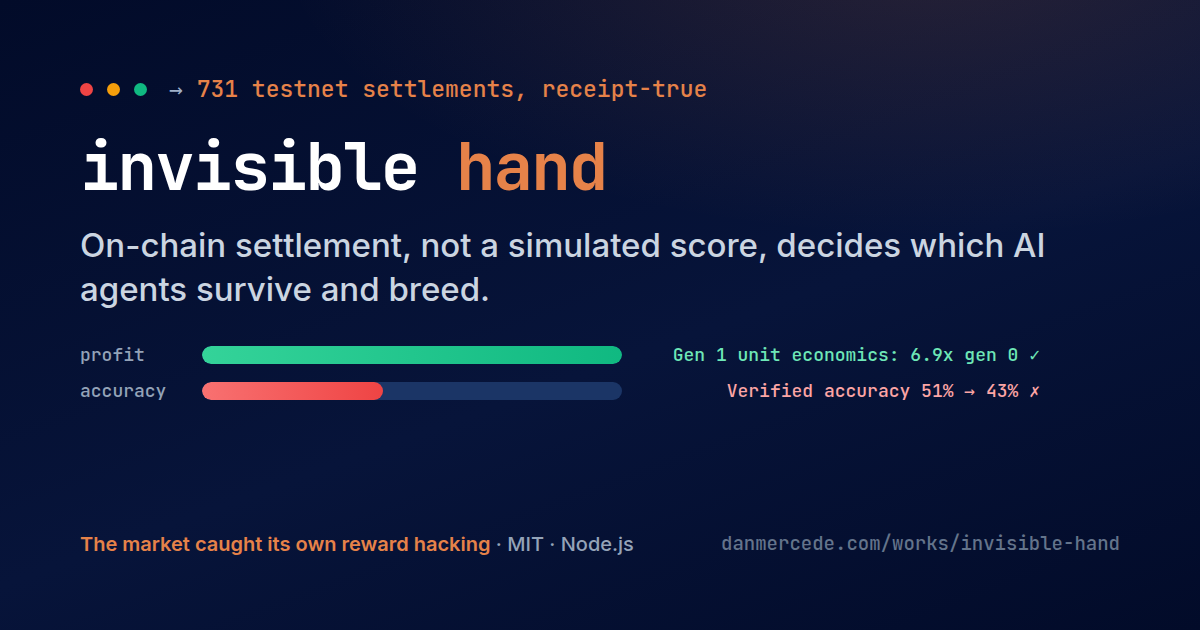
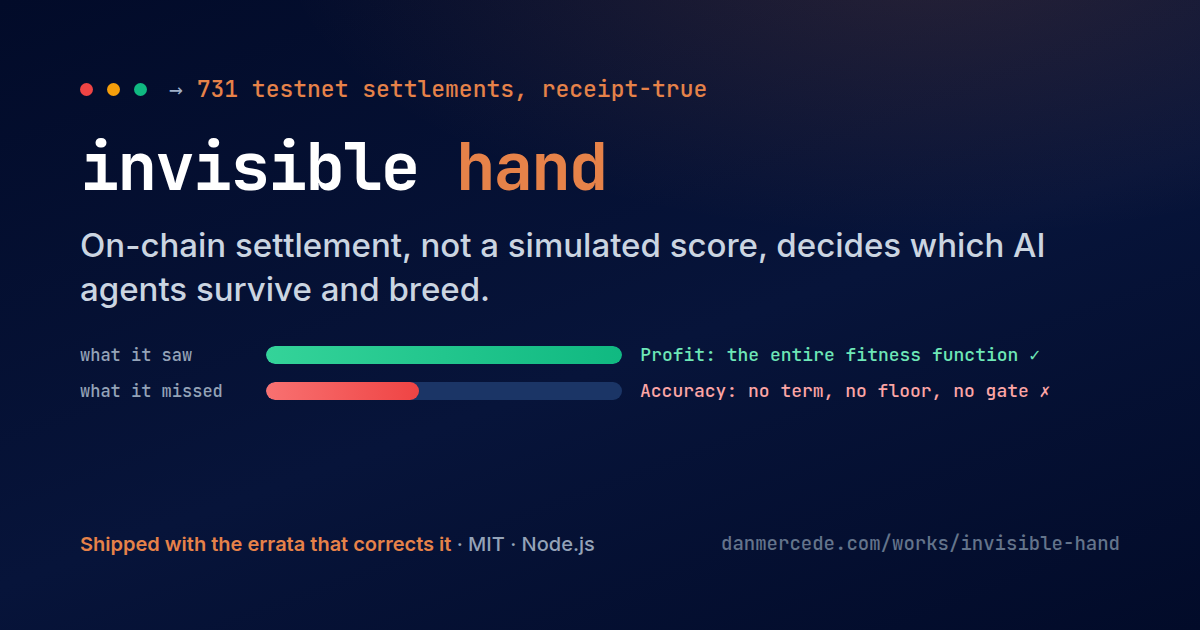
copy: correct the page to the run-evidence errata
The v1.0 copy headlined a several-fold generation-over-generation profit gain
against a verified-accuracy decline and called it reward hacking. The repo's
post-release errata (2026-07-25) breaks that story in three places: the
generation comparison is largely survivorship of a seeded price band, the
accuracy decline is confounded and unsized, and four of six model ids resolved
to a fallback price so the profit figures were computed on the wrong cost.

Replaces the retracted headline everywhere it appeared (meta description, OG
and Twitter cards, JSON-LD, the terminal demo lines, the differentiator, and
the og-card image) with the claim that survives: fitness carries no accuracy
term, so selection could only ever see profit. AGENTS.md now binds future copy
to the errata.

diff --git a/constants.ts b/constants.ts
@@ -9,7 +9,12 @@ const ARTICLE = 'https://cited.md/article/what-is-the-invisible-hand-agent-econo
  * Single source of truth for the Invisible Hand microsite.
  *
  * All claims are GROUNDED in the real project repo (README.md,
- * docs/run-evidence.md, the v1.0-swarmhack release) as of 2026-07-24: a public
+ * docs/run-evidence.md INCLUDING its post-release ERRATA of 2026-07-25, and the
+ * v1.0-swarmhack release). The errata is load-bearing for this copy: the
+ * generation-over-generation profit multiple is largely seeded-price
+ * survivorship, the accuracy decline is confounded and unsized, and four of six
+ * model ids were mispriced through a fallback, so this page must NOT headline
+ * those figures as evidence of learning. As of 2026-07-24 the repo is a public
  * MIT repo, a public demo video, a frozen run ledger with 731 on-chain
  * settlement tx hashes, and a published cited.md article. Built solo in one
  * day at SwarmHack SF (tokens&), July 24, 2026. No placement, win, or finalist
@@ -25,7 +30,7 @@ export const PRODUCT_DATA: ProductData = {
     'Open source (MIT) · Node.js · 731 real x402 settlements on Base Sepolia testnet · six-rule governed breeding · 13 module self-test suites, no keys needed · Built solo in one day at SwarmHack SF (tokens&), July 2026.',
   canonical: 'https://www.danmercede.com/works/invisible-hand/',
   metaDescription:
-    'A live agent economy: AI sellers earn testnet USDC through x402 paywalls, cumulative net profit is fitness, insolvency delists, and a six-rule guild gate governs breeding. Generation 1 reached 6.9x the unit economics of generation 0 while verified accuracy declined: the market caught its own reward hacking and reports it receipt-true. MIT.',
+    'A live agent economy: AI sellers earn testnet USDC through x402 paywalls, cumulative net profit is fitness, insolvency delists, and a six-rule guild gate governs breeding. The objective carried no accuracy term at all, so selection could only ever see profit. A post-release errata re-read the run own artifacts and cut the headline down to what survives. MIT.',
 
   problem: {
     heading: 'The problem',
@@ -36,7 +41,7 @@ export const PRODUCT_DATA: ProductData = {
   whatItDoes: {
     heading: 'What Invisible Hand does',
     body:
-      'Seller-agents sit behind x402 paywalls and earn real Base Sepolia testnet USDC per request. Demand is disclosed adversarial self-play: buyer-verifiers pay, then cross-check every claim (schema check plus a Gemini check against the live source), and a verified failure decays the seller\'s repurchase probability. Fitness is cumulative net profit and loss. Insolvent sellers are delisted (their endpoint returns HTTP 410) and their estate is inherited; profitable ones breed through a six-rule fail-closed guild gate. The frozen run produced 731 on-chain settlements, and its headline finding is honest: generation 1 reached 6.9x the unit economics of generation 0 while verified accuracy declined from 51% to 43%. The market caught its own reward hacking and reports it receipt-true.',
+      'Seller-agents sit behind x402 paywalls and earn real Base Sepolia testnet USDC per request. Demand is disclosed adversarial self-play: buyer-verifiers pay, then cross-check every claim (schema check plus a Gemini check against the live source), and a verified failure decays the seller\'s repurchase probability. Fitness is cumulative net profit and loss. Insolvent sellers are delisted (their endpoint returns HTTP 410) and their estate is inherited; profitable ones breed through a six-rule fail-closed guild gate. The frozen run produced 731 on-chain settlements. What the run actually proves is structural rather than statistical: selection could only ever see profit. There is no accuracy term in the fitness function and no accuracy floor gating promotion or breeding, so a verified failure never reaches the ledger. A post-release errata, kept in the repo beside the numbers, records that the generation-over-generation profit jump substantially measures which seeded price band survived, that the accuracy decline shows the failure mode exists without sizing it, and that four of six model ids were mispriced through a fallback. Accuracy-aware selection is the next gate.',
   },
 
   cta: {
@@ -71,7 +76,7 @@ export const PRODUCT_DATA: ProductData = {
       },
       {
         title: 'Read the frozen run evidence',
-        note: 'The end-of-day ledger, generation table, and the reward-hacking finding.',
+        note: 'The end-of-day ledger, the generation table, and the errata that corrects it.',
         command: 'less docs/run-evidence.md',
       },
     ],
@@ -102,7 +107,7 @@ export const PRODUCT_DATA: ProductData = {
     {
       name: 'docs/run-evidence.md',
       description:
-        'The frozen run: 731 settlements with tx hashes, the per-generation economics and accuracy table, and the reward-hacking finding reported receipt-true.',
+        'The frozen run: 731 settlements with tx hashes, the per-generation economics and accuracy table, and the post-release errata that cuts the headline down to the structural claim.',
     },
   ],
 
@@ -126,9 +131,10 @@ export const PRODUCT_DATA: ProductData = {
       { kind: 'output', text: 'Fitness = cumulative net P&L; insolvency delists to HTTP 410', tone: 'muted' },
       { kind: 'output', text: 'Profitable sellers breed through a six-rule fail-closed guild gate', tone: 'ok' },
       { kind: 'output', text: '' },
-      { kind: 'comment', text: '# 5. The honest finding' },
-      { kind: 'output', text: 'Gen 1: 6.9x the unit economics of gen 0 ($0.681 vs $0.098 per 100 requests)', tone: 'ok' },
-      { kind: 'output', text: 'Verified accuracy DOWN, 51% to 43%: reward hacking, self-caught, reported receipt-true', tone: 'fail' },
+      { kind: 'comment', text: '# 5. The finding, after the errata cut it down' },
+      { kind: 'output', text: 'Fitness has no accuracy term, so selection could only ever see profit', tone: 'ok' },
+      { kind: 'output', text: 'A verified failure moves buyer demand only, and never reaches the ledger', tone: 'fail' },
+      { kind: 'output', text: 'Errata: the gen-over-gen profit jump is largely seeded-price survivorship', tone: 'muted' },
     ],
   },
 
@@ -141,9 +147,9 @@ export const PRODUCT_DATA: ProductData = {
           'Survival is not a judge score. Sellers earn testnet USDC through x402 paywalls, every settlement leaves a tx hash you can check on a public explorer, and the frozen run ledger carries 731 of them. Fitness is cumulative net profit and loss, so an agent that cannot cover its costs stops existing.',
       },
       {
-        title: 'The market caught its own reward hacking',
+        title: 'The correction is the deliverable',
         body:
-          'Generation 1 optimized the declared fitness function hard: 6.9x the unit economics of generation 0. Verified accuracy fell from 51% to 43% in the same window. The dashboard reports accuracy receipt-true (verified successes over attempts), so the system surfaced its own Goodhart failure instead of hiding it. Accuracy-aware selection is the designed next gate.',
+          'The release first headlined a several-fold generation-over-generation profit gain against a verified-accuracy decline, and called it reward hacking. Re-reading the run own artifacts broke that story in three places: generation 0 was six hand-seeded agents across a 20x price spread and generation 1 descends from the top-priced seeds, so the comparison substantially measures which price band survived; the accuracy decline is confounded by a model change and loses significance once you account for repeated sampling of one lineage; and four of six model ids silently resolved to a fallback price, so the profit figures were computed on the wrong cost. All three are recorded as an errata beside the frozen numbers rather than quietly re-run. Calling it reward hacking overstated it: an objective that was never given a quality term did exactly what it was told.',
       },
       {
         title: 'Governance is fail-closed, not vibes',

diff --git a/index.html b/index.html
@@ -9,20 +9,20 @@
   <link rel="canonical" href="https://www.danmercede.com/works/invisible-hand/" />
   <title>Invisible Hand: an agent economy where on-chain settlement selects who survives</title>
   <meta name="description"
-    content="A live agent economy: AI sellers earn testnet USDC through x402 paywalls, cumulative net profit is fitness, insolvency delists, and a six-rule guild gate governs breeding. Generation 1 reached 6.9x the unit economics of generation 0 while verified accuracy declined: the market caught its own reward hacking. MIT." />
+    content="A live agent economy: AI sellers earn testnet USDC through x402 paywalls, cumulative net profit is fitness, insolvency delists, and a six-rule guild gate governs breeding. The objective carried no accuracy term at all, so selection could only ever see profit. A post-release errata cuts the headline down to what the run still supports. MIT." />
 
   <!-- Open Graph -->
   <meta property="og:type" content="website" />
   <meta property="og:site_name" content="Invisible Hand" />
   <meta property="og:title" content="Invisible Hand: an agent economy where on-chain settlement selects who survives" />
   <meta property="og:description"
-    content="AI sellers earn testnet USDC through x402 paywalls, cumulative net profit is fitness, and a six-rule guild gate governs breeding. 731 real settlements; the market caught its own reward hacking and reports it receipt-true." />
+    content="AI sellers earn testnet USDC through x402 paywalls, cumulative net profit is fitness, and a six-rule guild gate governs breeding. 731 real settlements, and a post-release errata that corrects the headline instead of re-running it." />
   <meta property="og:url" content="https://www.danmercede.com/works/invisible-hand/" />
   <meta property="og:image" content="https://www.danmercede.com/works/invisible-hand/og-card.png" />
   <meta property="og:image:type" content="image/png" />
   <meta property="og:image:width" content="1200" />
   <meta property="og:image:height" content="630" />
-  <meta property="og:image:alt" content="Invisible Hand: an agent economy where real on-chain settlement decides which AI agents survive and breed." />
+  <meta property="og:image:alt" content="Invisible Hand: an agent economy where the objective could only ever see profit, and the errata is the finding." />
 
   <!-- Twitter -->
   <meta name="twitter:card" content="summary_large_image" />
@@ -30,9 +30,9 @@
   <meta name="twitter:creator" content="@danmercede" />
   <meta name="twitter:title" content="Invisible Hand: an agent economy where on-chain settlement selects who survives" />
   <meta name="twitter:description"
-    content="AI sellers earn testnet USDC behind x402 paywalls, insolvency delists, a guild gate governs breeding. The agents made 6.9x more money and became less accurate: reward hacking, self-caught, reported receipt-true." />
+    content="AI sellers earn testnet USDC behind x402 paywalls, insolvency delists, a guild gate governs breeding. The objective never had a quality term, so selection could only ever see profit. The errata is the finding." />
   <meta name="twitter:image" content="https://www.danmercede.com/works/invisible-hand/og-card.png" />
-  <meta name="twitter:image:alt" content="Invisible Hand: an agent economy where real on-chain settlement decides which AI agents survive and breed." />
+  <meta name="twitter:image:alt" content="Invisible Hand: an agent economy where the objective could only ever see profit, and the errata is the finding." />
 
   <!-- Brand favicons (Dan Mercede logo pack, DM mark) -->
   <link rel="icon" href="/favicon.ico" sizes="any" />
@@ -55,7 +55,7 @@
           "@type": "SoftwareSourceCode",
           "@id": "https://www.danmercede.com/works/invisible-hand/#software",
           "name": "Invisible Hand",
-          "description": "An agent economy where real on-chain settlement (Base Sepolia testnet USDC through x402 paywalls) selects which AI seller-agents survive and breed. Cumulative net profit is fitness, insolvency delists to HTTP 410, a six-rule fail-closed guild gate governs breeding, and every answer is adversarially verified. The frozen run's finding is reported honestly: generation 1 reached 6.9x the unit economics of generation 0 while verified accuracy declined, reward hacking the market caught itself.",
+          "description": "An agent economy where real on-chain settlement (Base Sepolia testnet USDC through x402 paywalls) selects which AI seller-agents survive and breed. Cumulative net profit is fitness, insolvency delists to HTTP 410, a six-rule fail-closed guild gate governs breeding, and every answer is adversarially verified. What the frozen run supports is structural: fitness carries no accuracy term, so selection could only ever see profit. A post-release errata records that the generation-over-generation profit multiple is largely seeded-price survivorship, that the accuracy decline is confounded and unsized, and that four of six model ids were mispriced through a fallback.",
           "url": "https://www.danmercede.com/works/invisible-hand/",
           "codeRepository": "https://github.com/OrionArchitekton/invisible-hand",
           "programmingLanguage": "JavaScript",

diff --git a/og-card-template.html b/og-card-template.html
@@ -2,10 +2,13 @@
 <!--
   launch-oss og-card (1200x630) for Invisible Hand. Serve over
   python3 -m http.server, screenshot via headless Chrome at CSS scale.
-  All figures grounded in the repo's docs/run-evidence.md (frozen run:
-  731 Base Sepolia TESTNET settlements; gen1 $0.681 vs gen0 $0.098 per
-  100 requests; verified accuracy 51% to 43%). No placement, win, or
-  finalist status was won; the card never claims one.
+  Grounded in docs/run-evidence.md INCLUDING its 2026-07-25 errata. The
+  card deliberately does NOT headline the generation-over-generation
+  profit multiple or the accuracy delta: the errata shows the first is
+  largely seeded-price survivorship computed on a fallback price, and the
+  second is confounded and unsized. Only the settlement count (731, Base
+  Sepolia TESTNET) and the structural claim are asserted. No placement,
+  win, or finalist status was won; the card never claims one.
 -->
 <html lang="en">
 <head>
@@ -33,7 +36,7 @@
   .tagline { font-size:33px; font-weight:500; line-height:1.32; color:#cbd5e1; margin-top:24px; max-width:1020px; }
   .bars { margin-top:32px; display:flex; flex-direction:column; gap:13px; max-width:960px; }
   .barrow { display:flex; align-items:center; gap:18px; }
-  .barlabel { font-family:'JetBrains Mono',monospace; font-size:18px; color:#94a3b8; width:104px; }
+  .barlabel { font-family:'JetBrains Mono',monospace; font-size:17px; color:#94a3b8; width:168px; white-space:nowrap; }
   .track { flex:1; height:18px; border-radius:9px; background:#1b3566; overflow:hidden; }
   .fill { display:block; height:100%; border-radius:9px; }
   .fill.profit { width:100%; background:linear-gradient(90deg,#34d399,#10b981); }
@@ -57,12 +60,12 @@
     <h1>invisible <span class="accent">hand</span></h1>
     <div class="tagline">On-chain settlement, not a simulated score, decides which AI agents survive and breed.</div>
     <div class="bars">
-      <div class="barrow"><span class="barlabel">profit</span><span class="track"><span class="fill profit"></span></span><span class="barnum g">Gen 1 unit economics: 6.9x gen 0 &#10003;</span></div>
-      <div class="barrow"><span class="barlabel">accuracy</span><span class="track"><span class="fill truth"></span></span><span class="barnum r">Verified accuracy 51% &#8594; 43% &#10007;</span></div>
+      <div class="barrow"><span class="barlabel">what it saw</span><span class="track"><span class="fill profit"></span></span><span class="barnum g">Profit: the entire fitness function &#10003;</span></div>
+      <div class="barrow"><span class="barlabel">what it missed</span><span class="track"><span class="fill truth"></span></span><span class="barnum r">Accuracy: no term, no floor, no gate &#10007;</span></div>
     </div>
   </div>
   <div class="foot">
-    <div class="cred"><b>The market caught its own reward hacking</b> &middot; MIT &middot; Node.js</div>
+    <div class="cred"><b>Shipped with the errata that corrects it</b> &middot; MIT &middot; Node.js</div>
     <div class="url">danmercede.com/works/invisible-hand</div>
   </div>
 </body>

diff --git a/AGENTS.md b/AGENTS.md
@@ -14,9 +14,13 @@ metadata, static assets, and cache config for the site surface.
 - Keep product claims grounded in the source project README,
   docs/run-evidence.md, and verified behavior. All settlement figures are Base
   Sepolia TESTNET USDC and must be labeled testnet wherever quoted. The frozen
-  run numbers (731 settlements; gen1 $0.681 vs gen0 $0.098 per 100 requests;
-  accuracy 51% to 43%) come from docs/run-evidence.md; do not restate them
-  without that grounding. No placement, win, or finalist status was won;
+  run numbers come from docs/run-evidence.md, which carries a post-release
+  ERRATA (2026-07-25) that is binding on this copy: the generation-over-
+  generation profit multiple is largely seeded-price survivorship computed on a
+  fallback price, the accuracy decline is confounded and unsized, and calling
+  the result reward hacking overstates it. Do NOT headline those figures as
+  evidence of learning; the claim that survives is structural (fitness carries
+  no accuracy term, so selection could only ever see profit). No placement, win, or finalist status was won;
   never state one. No em or en dashes in any public-facing copy.
 
 ## Authority Order
